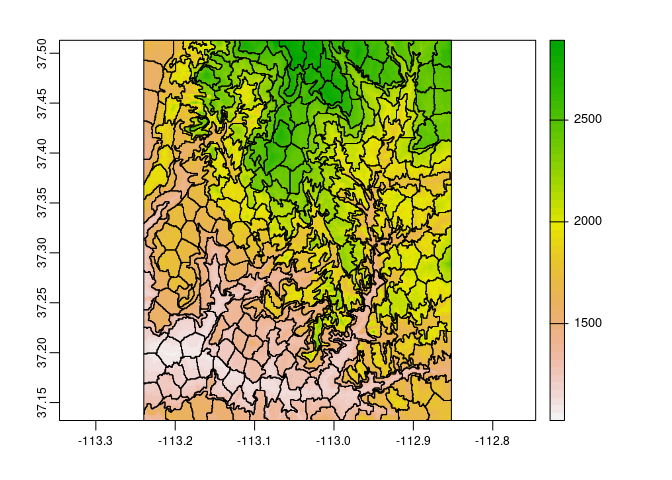
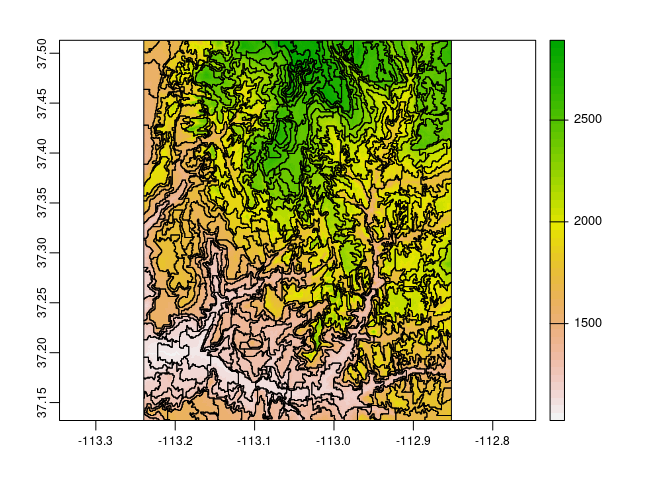
updates packages name

Changed region(s): [[0.2188, 0.0625, 0.6875, 0.875]]

diff --git a/src/cpp11.cpp b/src/cpp11.cpp
@@ -6,7 +6,7 @@
 
 // slic.h
 list run_slic(integers mat, doubles_matrix vals, double step, double nc, bool con, bool centers, std::string type, int iter);
-extern "C" SEXP _supercell_run_slic(SEXP mat, SEXP vals, SEXP step, SEXP nc, SEXP con, SEXP centers, SEXP type, SEXP iter) {
+extern "C" SEXP _supercells_run_slic(SEXP mat, SEXP vals, SEXP step, SEXP nc, SEXP con, SEXP centers, SEXP type, SEXP iter) {
   BEGIN_CPP11
     return cpp11::as_sexp(run_slic(cpp11::as_cpp<cpp11::decay_t<integers>>(mat), cpp11::as_cpp<cpp11::decay_t<doubles_matrix>>(vals), cpp11::as_cpp<cpp11::decay_t<double>>(step), cpp11::as_cpp<cpp11::decay_t<double>>(nc), cpp11::as_cpp<cpp11::decay_t<bool>>(con), cpp11::as_cpp<cpp11::decay_t<bool>>(centers), cpp11::as_cpp<cpp11::decay_t<std::string>>(type), cpp11::as_cpp<cpp11::decay_t<int>>(iter)));
   END_CPP11
@@ -14,15 +14,15 @@ extern "C" SEXP _supercell_run_slic(SEXP mat, SEXP vals, SEXP step, SEXP nc, SEX
 
 extern "C" {
 /* .Call calls */
-extern SEXP _supercell_run_slic(SEXP, SEXP, SEXP, SEXP, SEXP, SEXP, SEXP, SEXP);
+extern SEXP _supercells_run_slic(SEXP, SEXP, SEXP, SEXP, SEXP, SEXP, SEXP, SEXP);
 
 static const R_CallMethodDef CallEntries[] = {
-    {"_supercell_run_slic", (DL_FUNC) &_supercell_run_slic, 8},
+    {"_supercells_run_slic", (DL_FUNC) &_supercells_run_slic, 8},
     {NULL, NULL, 0}
 };
 }
 
-extern "C" void R_init_supercell(DllInfo* dll){
+extern "C" void R_init_supercells(DllInfo* dll){
   R_registerRoutines(dll, NULL, CallEntries, NULL, NULL);
   R_useDynamicSymbols(dll, FALSE);
   R_forceSymbols(dll, TRUE);

diff --git a/README.md b/README.md
@@ -1,22 +1,22 @@
 
 <!-- README.md is generated from README.Rmd. Please edit that file -->
 
-# supercell
+# supercells
 
 <!-- badges: start -->
-[![R-CMD-check](https://github.com/Nowosad/supercell/workflows/R-CMD-check/badge.svg)](https://github.com/Nowosad/supercell/actions)
+[![R-CMD-check](https://github.com/Nowosad/supercells/workflows/R-CMD-check/badge.svg)](https://github.com/Nowosad/supercells/actions)
 [![Lifecycle:
 experimental](https://img.shields.io/badge/lifecycle-experimental-orange.svg)](https://lifecycle.r-lib.org/articles/stages.html#experimental)
 <!-- badges: end -->
 
-The goal of **supercell** is to utilize the concept of superpixels to a
+The goal of **supercells** is to utilize the concept of superpixels to a
 variety of spatial data.
 
 ## Installation
 
-<!-- You can install the released version of supercell from [CRAN](https://CRAN.R-project.org) with: -->
+<!-- You can install the released version of supercells from [CRAN](https://CRAN.R-project.org) with: -->
 <!-- ``` r -->
-<!-- install.packages("supercell") -->
+<!-- install.packages("supercells") -->
 <!-- ``` -->
 
 You can install the development version from
@@ -25,15 +25,17 @@ You can install the development version from
 ``` r
 # install.packages("remotes")
 remotes::install_github("Nowosad/spDataLarge")
-remotes::install_github("Nowosad/supercell")
+remotes::install_github("Nowosad/supercells")
 ```
 
 ## Example
 
 ``` r
-library(supercell)
+library(supercells)
 library(terra)
 #> terra version 1.1.17
+library(sf)
+#> Linking to GEOS 3.8.1, GDAL 3.1.4, PROJ 6.3.2
 srtm = rast(system.file("raster/srtm.tif", package = "spDataLarge"))
 plot(srtm)
 ```
@@ -41,9 +43,17 @@ plot(srtm)
 <img src="man/figures/README-unnamed-chunk-2-1.png" width="100%" />
 
 ``` r
-srtm_slic = supercell(srtm, 23, 100, "euclidean")
+srtm_slic1 = supercells(srtm, 23, 1, "euclidean", iter = 10)
 plot(srtm)
-plot(srtm_slic, add = TRUE, col = NA)
+plot(st_geometry(srtm_slic1), add = TRUE)
 ```
 
 <img src="man/figures/README-unnamed-chunk-3-1.png" width="100%" />
+
+``` r
+srtm_slic2 = supercells(srtm, 23, 1, "euclidean", clean = FALSE, iter = 10)
+plot(srtm)
+plot(st_geometry(srtm_slic2), add = TRUE)
+```
+
+<img src="man/figures/README-unnamed-chunk-4-1.png" width="100%" />
